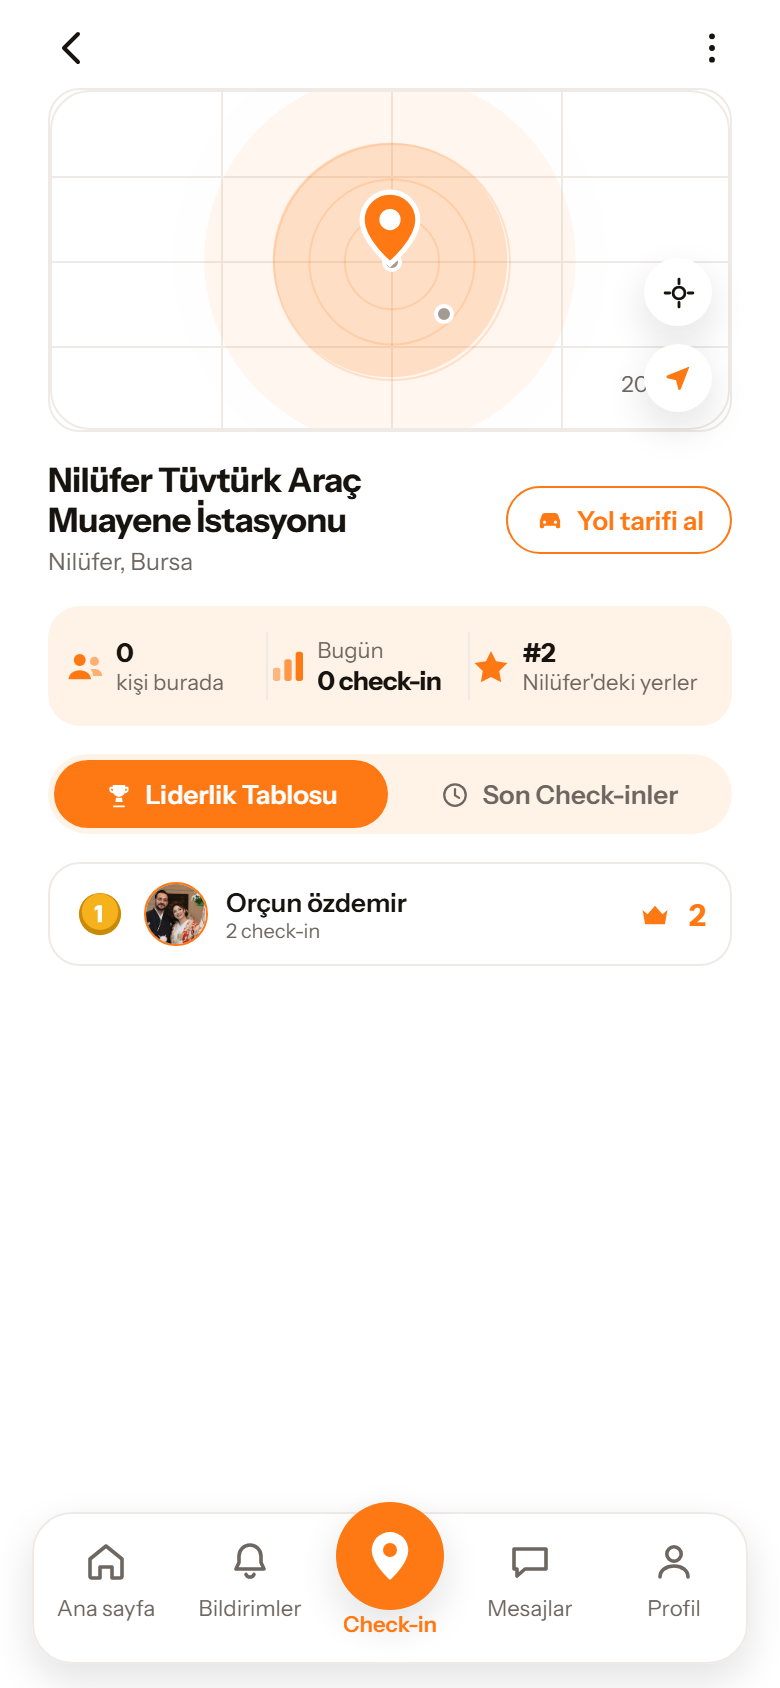
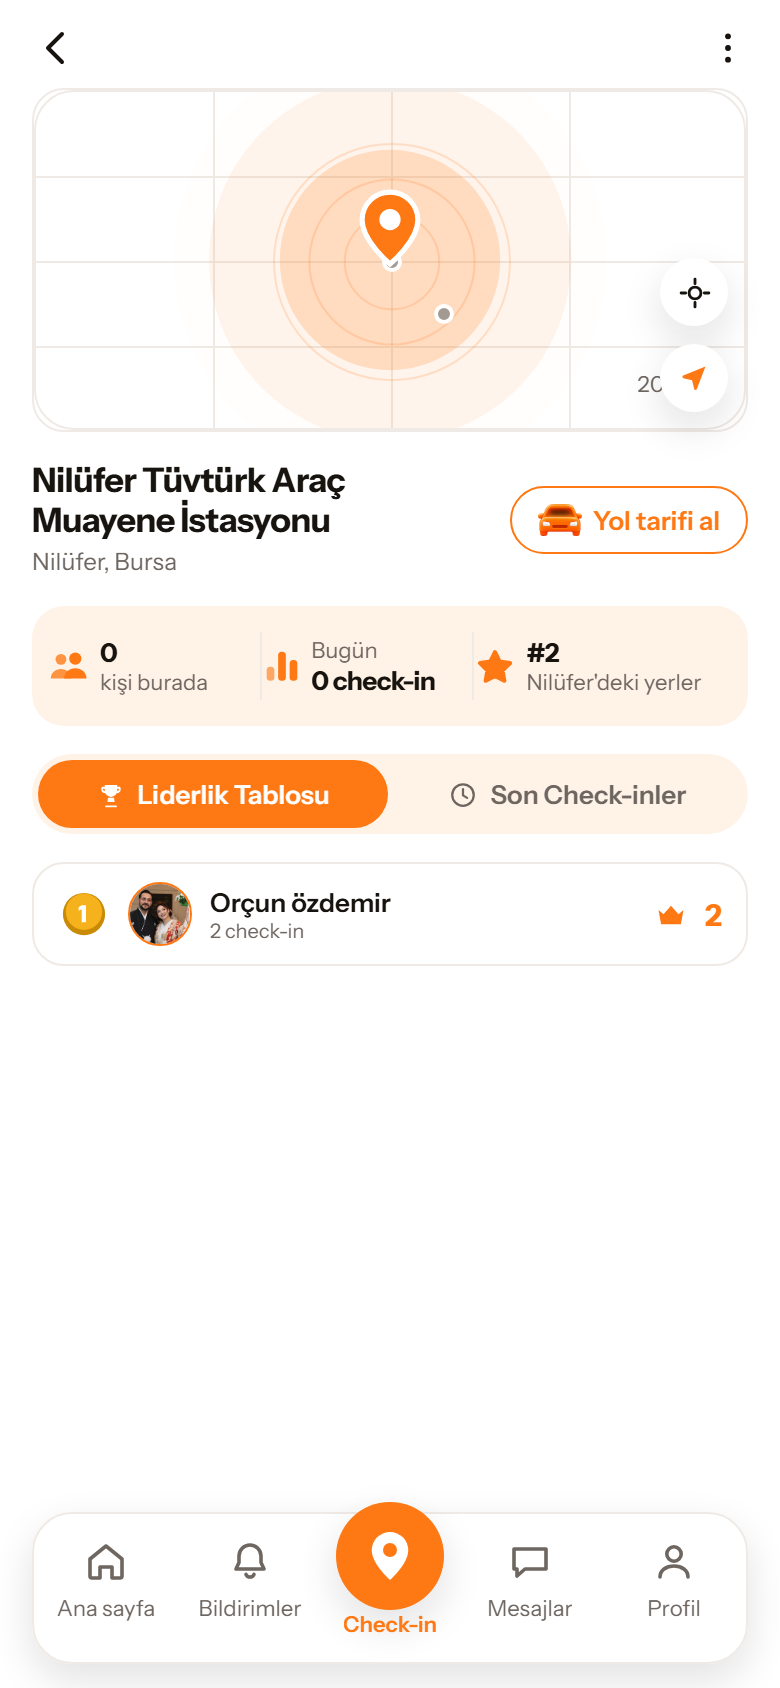
feat(tasarim): sayfa yan payi daraldi, mekan ikonlari referanstan
Kullanicinin uc istegi.

1) "Ekrani yanlardan sigdir, ekrani yay, tam ekran gorunsun uygulama
   her zaman." Yan pay 45 ayri yerde paddingHorizontal: bosluk.xl (24)
   diye yaziliydi; hepsi yeni `bosluk.sayfa` (16) jetonuna baglandi.

   Neden yeni jeton: bosluk.xl dikey bosluk ve gap olarak da
   kullaniliyor, degerini degistirmek istenmeyen yerleri kaydirirdi.
   29 dosya etkilendi; akis, profil ve kesfet ekran goruntusuyle ayrica
   kontrol edildi.

2) Olcu seridi ikonlari yakin cekime gore yeniden cizildi: kisiler UC
   degil IKI (arkadaki %55 -> %78 opaklik), cubuklarda ORTADAKI en uzun
   (duz artan merdiven degil), yildizin koseleri yuvarlak.

3) ARABA IKONU: uc kez elle cizildi, ucu de referansi tutturamadi
   (kutu govde + dugme gibi daireler / dolu siluet / tekerlekleri "iki
   bacak" gibi duran cizgi). Kullanici gorseli gonderip "bu attigimi
   direk kullan" dedi; artik SVG degil <Image>.

   araclar/araba-ikonu-uret.py ile uretiliyor. Kaynakta arabanin
   cevresinde genis bir turuncu parilti vardi ve gövdeyle neredeyse
   ayni renkteydi (govde 253,117,2 gri 121 - parilti 240,127,15 gri
   127), yani renk esigiyle ayrilamiyordu. Ayiran tek sey keskinlik:
   maske gradyandan cikariliyor.

   Esik OLCULEREK secildi: %80-%94 tarandi, %88-%90 araliginda sonuc
   sabit (%53 maske, tek bilesen). Ilk deneme %96 kullanmis ve maske
   %2,4 cikmisti - kontur kapanmadigi icin arabanin yalnizca bir
   parcasi secilmisti.
[…]

diff --git a/mobil/src/tasarim/mekan-ikonlari.tsx b/mobil/src/tasarim/mekan-ikonlari.tsx
@@ -1,3 +1,4 @@
+import { Image } from 'react-native'
 import Svg, { Path, Circle, Rect } from 'react-native-svg'
 import { useRenk } from './tema-baglami'
 
@@ -15,42 +16,74 @@ import { useRenk } from './tema-baglami'
 
 type IkonProps = { boyut?: number; renk?: string }
 
-/** Uc kisi silueti - "su an kac kisi burada". */
+/**
+ * IKI kisi silueti - "su an kac kisi burada".
+ *
+ * Kullanicinin gonderdigi yakin cekime gore cizildi (2026-09-06).
+ * Ilk surumde ikinci kisi %55 opakligtaydi ve neredeyse gorunmuyordu;
+ * referansta ikisi de belirgin, yalnizca arkadaki BIR TIK acik. Kafalar
+ * da daha buyuk ve govdeler daha yuvarlak.
+ */
 export function KisilerIkonu({ boyut = 22, renk: verilen }: IkonProps) {
   const renk = useRenk()
   const c = verilen ?? renk.turuncu
   return (
     <Svg width={boyut} height={boyut} viewBox="0 0 24 24">
-      <Circle cx={9} cy={8} r={3.4} fill={c} />
-      <Path d="M2.6 19c0-3.1 2.9-5.2 6.4-5.2s6.4 2.1 6.4 5.2z" fill={c} />
-      <Circle cx={17.4} cy={8.8} r={2.6} fill={c} opacity={0.55} />
-      <Path d="M17.4 13.2c2.6 0 4.4 1.6 4.4 3.9h-5.3c0-1.6-.5-2.9-1.4-3.8.7-.1 1.5-.1 2.3-.1z" fill={c} opacity={0.55} />
+      {/* ARKADAKI kisi - bir tik acik, soldan tasiyor. */}
+      <Circle cx={7.4} cy={7.6} r={3.1} fill={c} opacity={0.78} />
+      <Path
+        d="M1.6 18.6c0-3.2 2.6-5.4 5.8-5.4s5.8 2.2 5.8 5.4z"
+        fill={c}
+        opacity={0.78}
+      />
+      {/* ONDEKI kisi - tam doygun, sagda ve biraz daha buyuk. */}
+      <Circle cx={15.6} cy={7.2} r={3.5} fill={c} />
+      <Path
+        d="M9.2 18.6c0-3.5 2.9-5.9 6.4-5.9s6.4 2.4 6.4 5.9z"
+        fill={c}
+      />
     </Svg>
   )
 }
 
-/** Yukselen cubuklar - "bugun kac check-in". */
+/**
+ * Yukselen cubuklar - "bugun kac check-in".
+ *
+ * Referansta ORTADAKI en uzun, soldaki en kisa ve bir tik acik,
+ * sagdaki ortada. Ilk surumde soldan saga duz artan bir merdiven
+ * cizilmisti; referanstaki ritim o degil.
+ */
 export function CubukIkonu({ boyut = 22, renk: verilen }: IkonProps) {
   const renk = useRenk()
   const c = verilen ?? renk.turuncu
   return (
     <Svg width={boyut} height={boyut} viewBox="0 0 24 24">
-      <Rect x={3} y={13} width={4.4} height={8} rx={1.6} fill={c} opacity={0.5} />
-      <Rect x={9.8} y={8} width={4.4} height={13} rx={1.6} fill={c} opacity={0.75} />
-      <Rect x={16.6} y={3.5} width={4.4} height={17.5} rx={1.6} fill={c} />
+      <Rect x={2.8} y={12.4} width={4.6} height={8.4} rx={2.1} fill={c} opacity={0.62} />
+      <Rect x={9.7} y={3.4} width={4.6} height={17.4} rx={2.1} fill={c} />
+      <Rect x={16.6} y={8.4} width={4.6} height={12.4} rx={2.1} fill={c} />
     </Svg>
   )
 }
 
-/** Yildiz - "ilcedeki sirasi". */
+/**
+ * Yildiz - "ilcedeki sirasi".
+ *
+ * KOSELERI YUVARLAK. Referanstaki yildiz keskin uclu degil, yumusak
+ * hatli; ayni dolgu rengiyle kalin bir `strokeLinejoin="round"` konturu
+ * cizmek bunu tek path ile veriyor.
+ */
 export function YildizIkonu({ boyut = 22, renk: verilen }: IkonProps) {
   const renk = useRenk()
   const c = verilen ?? renk.turuncu
   return (
     <Svg width={boyut} height={boyut} viewBox="0 0 24 24">
       <Path
-        d="M12 2.8l2.9 5.9 6.5.95-4.7 4.6 1.1 6.45L12 17.65l-5.8 3.05 1.1-6.45-4.7-4.6 6.5-.95z"
+        d="M12 3.6l2.65 5.35 5.9.86-4.27 4.16 1.01 5.87L12 17.02l-5.29 2.78 1.01-5.87L3.45 9.77l5.9-.86z"
         fill={c}
+        stroke={c}
+        strokeWidth={2.4}
+        strokeLinejoin="round"
+        strokeLinecap="round"
       />
     </Svg>
   )
@@ -89,19 +122,35 @@ export function SaatIkonu({ boyut = 18, renk: verilen }: IkonProps) {
   )
 }
 
-/** Araba - "Yol tarifi al". */
-export function ArabaIkonu({ boyut = 17, renk: verilen }: IkonProps) {
-  const renk = useRenk()
-  const c = verilen ?? renk.turuncu
+/**
+ * Araba - "Yol tarifi al".
+ *
+ * BU BIR SVG DEGIL, KULLANICININ GONDERDIGI GORSEL. Talimat aciktı:
+ * "Bu attigimi direk kullan" (2026-09-06). Ondan once ayni ikon uc kez
+ * elle cizilmis ve ucu de referansi tutturamamisti - once kutu gibi bir
+ * govde, sonra dolu bir siluet, sonra tekerlekleri "iki bacak" gibi
+ * duran bir cizgi ikonu.
+ *
+ * Varlik `araclar/araba-ikonu-uret.py` ile uretiliyor. Kaynak gorsel
+ * SIYAH zeminliydi ve arabanin cevresinde genis bir turuncu parilti
+ * vardi; parilti gövdeyle NEREDEYSE AYNI RENKTE oldugu icin (govde
+ * 253,117,2 - parilti 240,127,15) renk esigiyle ayrilamiyordu.
+ * Ayiran tek sey keskinlik oldu: maske gradyandan cikariliyor.
+ *
+ * `renk` prop'u burada ISLEMIYOR - gorsel kendi rengini tasiyor. Ikon
+ * yalnizca turuncu kenarlikli "Yol tarifi al" dugmesinde kullaniliyor,
+ * yani koyu modda da dogru duruyor.
+ */
+export function ArabaIkonu({ boyut = 18 }: { boyut?: number }) {
+  // Kaynak 240x175; en/boy orani sabit tutuluyor ki araba ezilmesin.
+  const yukseklik = Math.round((boyut * 175) / 240)
   return (
-    <Svg width={boyut} height={boyut} viewBox="0 0 24 24">
-      <Path
-        d="M4.4 12.6l1.5-4.3A2.4 2.4 0 0 1 8.2 6.7h7.6a2.4 2.4 0 0 1 2.3 1.6l1.5 4.3v4.5a1 1 0 0 1-1 1h-1.2a1 1 0 0 1-1-1v-.8H7.6v.8a1 1 0 0 1-1 1H5.4a1 1 0 0 1-1-1z"
-        fill={c}
-      />
-      <Circle cx={7.9} cy={13.6} r={1.15} fill="#FFFFFF" />
-      <Circle cx={16.1} cy={13.6} r={1.15} fill="#FFFFFF" />
-    </Svg>
+    <Image
+      source={require('../../assets/araba.png')}
+      style={{ width: boyut, height: yukseklik }}
+      resizeMode="contain"
+      accessibilityIgnoresInvertColors
+    />
   )
 }
 

diff --git a/mobil/src/app/mekanlar/index.tsx b/mobil/src/app/mekanlar/index.tsx
@@ -771,7 +771,7 @@ const stilleriYap = (renk: Renk) => StyleSheet.create({
     backgroundColor: renk.turuncu,
     borderRadius: yuvarlak.hap,
     paddingVertical: bosluk.m,
-    paddingHorizontal: bosluk.xl,
+    paddingHorizontal: bosluk.sayfa,
     marginTop: bosluk.s,
   },
   birincilButonYazi: { fontFamily: yazi.govdeKalin, fontSize: olcek.govde, color: renk.yuzey },
@@ -791,7 +791,7 @@ const stilleriYap = (renk: Renk) => StyleSheet.create({
     lineHeight: 34,
     color: renk.metin,
     letterSpacing: -0.8,
-    paddingHorizontal: bosluk.xl,
+    paddingHorizontal: bosluk.sayfa,
     marginTop: bosluk.l,
   },
   /**
@@ -830,7 +830,7 @@ const stilleriYap = (renk: Renk) => StyleSheet.create({
     fontFamily: yazi.govde,
     fontSize: olcek.kucuk,
     color: renk.metinIkincil,
-    paddingHorizontal: bosluk.xl,
+    paddingHorizontal: bosluk.sayfa,
     marginTop: bosluk.xs,
   },
   ozetVurgu: { fontFamily: yazi.govdeKalin, color: renk.turuncuKoyu },
@@ -873,7 +873,7 @@ const stilleriYap = (renk: Renk) => StyleSheet.create({
     marginTop: bosluk.l,
   },
 
-  turSatiri: { gap: bosluk.s, paddingHorizontal: bosluk.xl, paddingTop: bosluk.m },
+  turSatiri: { gap: bosluk.s, paddingHorizontal: bosluk.sayfa, paddingTop: bosluk.m },
   turCipi: {
     borderRadius: yuvarlak.hap,
     paddingVertical: 8,
@@ -886,7 +886,7 @@ const stilleriYap = (renk: Renk) => StyleSheet.create({
   turYazi: { fontFamily: yazi.govdeOrta, fontSize: olcek.kucuk, color: renk.metinIkincil },
   turYaziSecili: { color: renk.yuzey },
 
-  kartSatiri: { gap: bosluk.m, paddingHorizontal: bosluk.xl, paddingTop: bosluk.l },
+  kartSatiri: { gap: bosluk.m, paddingHorizontal: bosluk.sayfa, paddingTop: bosluk.l },
   kart: { width: KART_GENISLIK, height: KART_YUKSEKLIK, borderRadius: 28, ...golge.yuzer },
   // Beyaz kapak uzerinde cam rozet gorunmuyordu: dolgu turuncuya
   // gecti. Turuncu burada dogru - "su an canli" bir eylem/canlilik
@@ -919,7 +919,7 @@ const stilleriYap = (renk: Renk) => StyleSheet.create({
     fontSize: olcek.altBaslik,
     color: renk.metin,
     letterSpacing: -0.3,
-    paddingHorizontal: bosluk.xl,
+    paddingHorizontal: bosluk.sayfa,
     marginTop: bosluk.xl,
     marginBottom: bosluk.xs,
   },
@@ -928,7 +928,7 @@ const stilleriYap = (renk: Renk) => StyleSheet.create({
     alignItems: 'center',
     gap: bosluk.m,
     paddingVertical: bosluk.m,
-    paddingHorizontal: bosluk.xl,
+    paddingHorizontal: bosluk.sayfa,
     borderBottomWidth: 1,
     borderBottomColor: renk.cizgi,
   },
@@ -968,7 +968,7 @@ const stilleriYap = (renk: Renk) => StyleSheet.create({
     fontFamily: yazi.govde,
     fontSize: olcek.kucuk,
     color: renk.metinIkincil,
-    paddingHorizontal: bosluk.xl,
+    paddingHorizontal: bosluk.sayfa,
     paddingVertical: bosluk.m,
   },
 
@@ -979,6 +979,6 @@ const stilleriYap = (renk: Renk) => StyleSheet.create({
     fontSize: olcek.minik,
     color: renk.metinSoluk,
     textAlign: 'center',
-    paddingHorizontal: bosluk.xl,
+    paddingHorizontal: bosluk.sayfa,
   },
 })

diff --git a/mobil/src/app/profil/index.tsx b/mobil/src/app/profil/index.tsx
@@ -858,7 +858,7 @@ const stilleriYap = (renk: Renk) => StyleSheet.create({
   kok: { flex: 1, backgroundColor: renk.zemin },
   sayfa: { flex: 1 },
   icerik: {
-    paddingHorizontal: bosluk.xl,
+    paddingHorizontal: bosluk.sayfa,
     // Ust pay 44 -> 16 (kullanicinin istegi 2026-08-29: "biraz daha
     // kucultup yukari tasi"). Durum cubugunun altindaki bosluk
     // gereginden genisti.
@@ -933,7 +933,7 @@ const stilleriYap = (renk: Renk) => StyleSheet.create({
     gap: bosluk.m,
     // Zemin YOK: gradyan `BAND_GECISI` ile LinearGradient'ten geliyor.
     marginHorizontal: -bosluk.xl,
-    paddingHorizontal: bosluk.xl,
+    paddingHorizontal: bosluk.sayfa,
     paddingTop: bosluk.l,
     paddingBottom: bosluk.m,
     // Bandin altindaki bosluk DARALTILDI (kullanicinin istegi
@@ -976,7 +976,7 @@ const stilleriYap = (renk: Renk) => StyleSheet.create({
     minWidth: 140,
     alignItems: 'center',
     paddingVertical: 12,
-    paddingHorizontal: bosluk.xl,
+    paddingHorizontal: bosluk.sayfa,
     borderRadius: yuvarlak.hap,
     borderWidth: 1,
     borderColor: 'rgba(255,255,255,0.6)',

diff --git a/mobil/src/app/kullanici/[id].tsx b/mobil/src/app/kullanici/[id].tsx
@@ -446,7 +446,7 @@ const stilleriYap = (renk: Renk) => StyleSheet.create({
     flexDirection: 'row',
     alignItems: 'center',
     gap: bosluk.m,
-    paddingHorizontal: bosluk.xl,
+    paddingHorizontal: bosluk.sayfa,
     paddingTop: bosluk.xxl + bosluk.m,
     paddingBottom: bosluk.m,
   },
@@ -459,7 +459,7 @@ const stilleriYap = (renk: Renk) => StyleSheet.create({
   },
 
   icerik: {
-    paddingHorizontal: bosluk.xl,
+    paddingHorizontal: bosluk.sayfa,
     paddingBottom: ALT_GEZINME_PAYI,
   },
 
@@ -543,7 +543,7 @@ const stilleriYap = (renk: Renk) => StyleSheet.create({
     backgroundColor: renk.turuncu,
     borderRadius: yuvarlak.hap,
     paddingVertical: 10,
-    paddingHorizontal: bosluk.xl,
+    paddingHorizontal: bosluk.sayfa,
   },
   birincilKucukYazi: {
     fontFamily: yazi.govdeKalin,

diff --git a/mobil/src/app/index.tsx b/mobil/src/app/index.tsx
@@ -400,7 +400,7 @@ const stilleriYap = (renk: Renk) => StyleSheet.create({
 
   ustCubuk: {
     alignItems: 'center',
-    paddingHorizontal: bosluk.xl,
+    paddingHorizontal: bosluk.sayfa,
     paddingTop: bosluk.xl,
     paddingBottom: bosluk.m,
   },
@@ -409,14 +409,14 @@ const stilleriYap = (renk: Renk) => StyleSheet.create({
     fontFamily: yazi.govdeOrta,
     fontSize: olcek.kucuk,
     color: renk.yikici,
-    paddingHorizontal: bosluk.xl,
+    paddingHorizontal: bosluk.sayfa,
     marginBottom: bosluk.s,
   },
   durum: {
     fontFamily: yazi.govde,
     fontSize: olcek.kucuk,
     color: renk.metinIkincil,
-    paddingHorizontal: bosluk.xl,
+    paddingHorizontal: bosluk.sayfa,
   },
 
   // Kartlar TAM GENISLIK (kullanicinin istegi 2026-09-02): yatay dolgu

diff --git a/mobil/src/app/harita/[mekanId].tsx b/mobil/src/app/harita/[mekanId].tsx
@@ -437,7 +437,7 @@ export default function MekanSayfasi() {
                 accessibilityRole="button"
                 testID="yol-tarifi-al"
               >
-                <ArabaIkonu boyut={16} />
+                <ArabaIkonu boyut={22} />
                 <Text style={stiller.tarifYazi}>{t('mekanSayfasi.yolTarifi')}</Text>
               </Pressable>
             </View>
@@ -750,7 +750,7 @@ export default function MekanSayfasi() {
 const stilleriYap = (renk: Renk) => StyleSheet.create({
   kok: { flex: 1, backgroundColor: renk.zemin },
   icerik: {
-    paddingHorizontal: bosluk.xl,
+    paddingHorizontal: bosluk.sayfa,
     paddingBottom: ALT_GEZINME_PAYI,
     gap: 14,
   },

diff --git a/mobil/src/tasarim/tema.ts b/mobil/src/tasarim/tema.ts
@@ -204,6 +204,19 @@ export const bosluk = {
   l: 16,
   xl: 24,
   xxl: 32,
+  /**
+   * SAYFA KENARI - butun ekranlarin yan payi.
+   *
+   * Kullanicinin istegi (2026-09-06): "Ekrani yanlardan sigdir, ekrani
+   * yay, tam ekran gorunsun uygulama her zaman." Onceden her ekran
+   * `bosluk.xl` (24) kullaniyordu ve icerik dar kaliyordu.
+   *
+   * AYRI BIR JETON olmasinin sebebi: `bosluk.xl` dikey bosluk ve gap
+   * olarak da kullaniliyor; degerini degistirmek istenmeyen yerleri de
+   * kaydirirdi. Sayfa kenari kendi adiyla durunca ileride tek yerden
+   * ayarlanabiliyor.
+   */
+  sayfa: 16,
 } as const
 
 export const yuvarlak = {

diff --git a/mobil/src/app/profil/engellenenler.tsx b/mobil/src/app/profil/engellenenler.tsx
@@ -139,7 +139,7 @@ const stilleriYap = (renk: Renk) => StyleSheet.create({
     flexDirection: 'row',
     alignItems: 'center',
     gap: bosluk.m,
-    paddingHorizontal: bosluk.xl,
+    paddingHorizontal: bosluk.sayfa,
     paddingTop: bosluk.xxl + bosluk.m,
     paddingBottom: bosluk.m,
   },
@@ -151,7 +151,7 @@ const stilleriYap = (renk: Renk) => StyleSheet.create({
     letterSpacing: -0.4,
   },
 
-  liste: { paddingHorizontal: bosluk.xl, paddingBottom: ALT_GEZINME_PAYI },
+  liste: { paddingHorizontal: bosluk.sayfa, paddingBottom: ALT_GEZINME_PAYI },
   hata: {
     fontFamily: yazi.govdeOrta,
     fontSize: olcek.kucuk,

diff --git a/mobil/src/app/baglar.tsx b/mobil/src/app/baglar.tsx
@@ -128,7 +128,7 @@ export default function BaglarEkrani() {
 const stilleriYap = (renk: Renk) => StyleSheet.create({
   kok: { flex: 1, backgroundColor: renk.zemin },
   icerik: {
-    paddingHorizontal: bosluk.xl,
+    paddingHorizontal: bosluk.sayfa,
     paddingBottom: ALT_GEZINME_PAYI,
   },
 
@@ -194,7 +194,7 @@ const stilleriYap = (renk: Renk) => StyleSheet.create({
     fontFamily: yazi.govdeOrta,
     fontSize: olcek.kucuk,
     color: renk.yikici,
-    paddingHorizontal: bosluk.xl,
+    paddingHorizontal: bosluk.sayfa,
     paddingTop: bosluk.m,
   },
 })

diff --git a/mobil/src/app/(auth)/karsilama.tsx b/mobil/src/app/(auth)/karsilama.tsx
@@ -246,7 +246,7 @@ const stilleriYap = (renk: Renk) => StyleSheet.create({
     flex: 1,
     // Karsilama, beyaz zemin kuralinin TEK istisnasi.
     backgroundColor: renk.karsilamaZemini,
-    paddingHorizontal: bosluk.xl,
+    paddingHorizontal: bosluk.sayfa,
     // UST PAY BURADA DEGIL: kok duzen bu ekrana pay vermiyor, ekran
     // kendi payini `guvenliAlan.top + UST_PAY` ile koyuyor. Boylece
     // krem zemin saatin ardina kadar uzaniyor ve ust sinir cizgisi

diff --git a/mobil/src/app/profil/kullanici-adi.tsx b/mobil/src/app/profil/kullanici-adi.tsx
@@ -116,7 +116,7 @@ export default function KullaniciAdiEkrani() {
 
 const stilleriYap = (renk: Renk) => StyleSheet.create({
   kok: { flex: 1, backgroundColor: renk.zemin },
-  icerik: { paddingHorizontal: bosluk.xl, paddingTop: bosluk.s, paddingBottom: ALT_GEZINME_PAYI },
+  icerik: { paddingHorizontal: bosluk.sayfa, paddingTop: bosluk.s, paddingBottom: ALT_GEZINME_PAYI },
 
   etiket: {
     fontFamily: yazi.govde,

diff --git a/mobil/src/app/(auth)/kayit.tsx b/mobil/src/app/(auth)/kayit.tsx
@@ -233,7 +233,7 @@ const stilleriYap = (renk: Renk) => StyleSheet.create({
   sayfa: {
     flex: 1,
     backgroundColor: renk.zemin,
-    paddingHorizontal: bosluk.xl,
+    paddingHorizontal: bosluk.sayfa,
     // LOGO YUKARIDA, YAZILAR ASAGIDA (kullanicinin verdigi referans
     // duzeni, 2026-09-01). Isaret ekranin tepesine yakin duruyor;
     // arasindaki genis bosluk onu formdan ayiriyor ve tek basina
